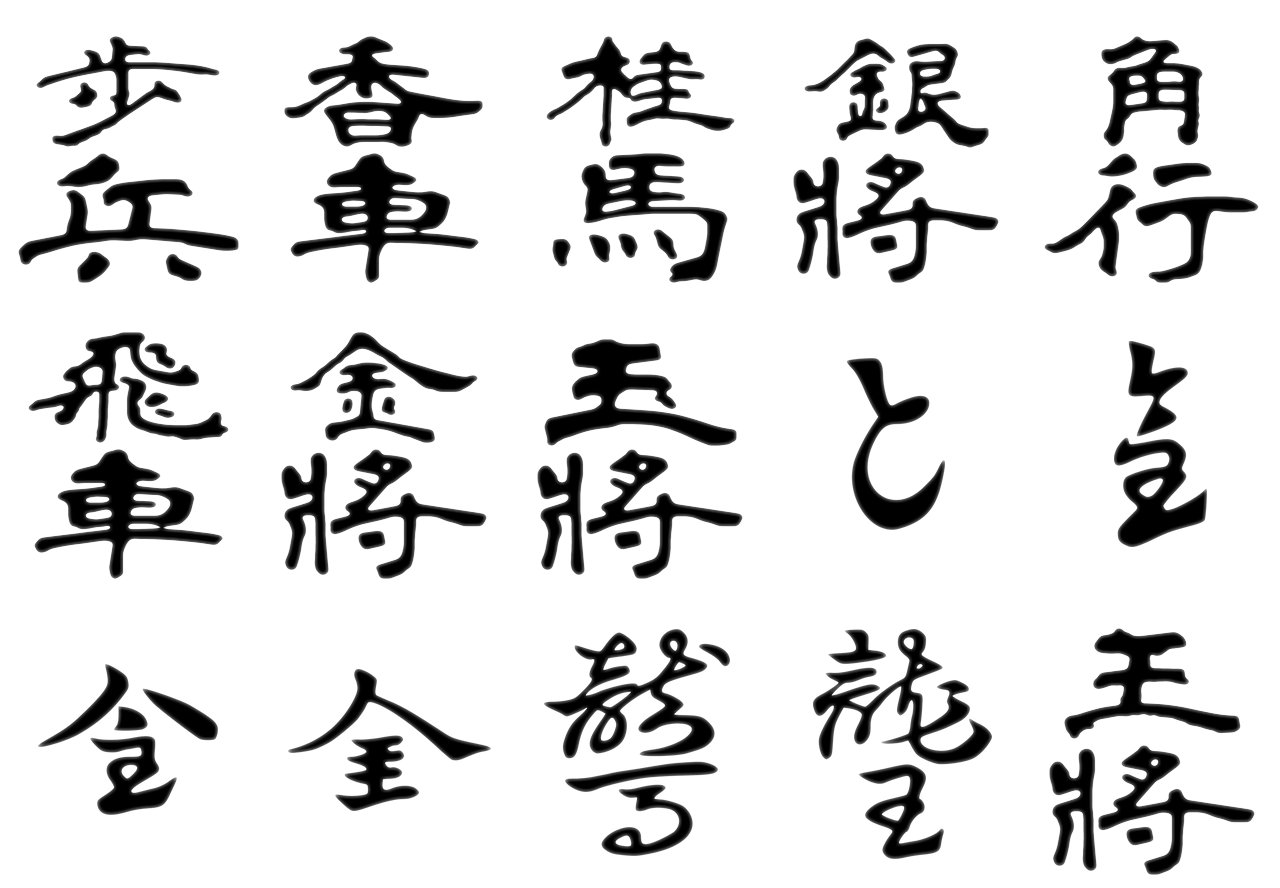
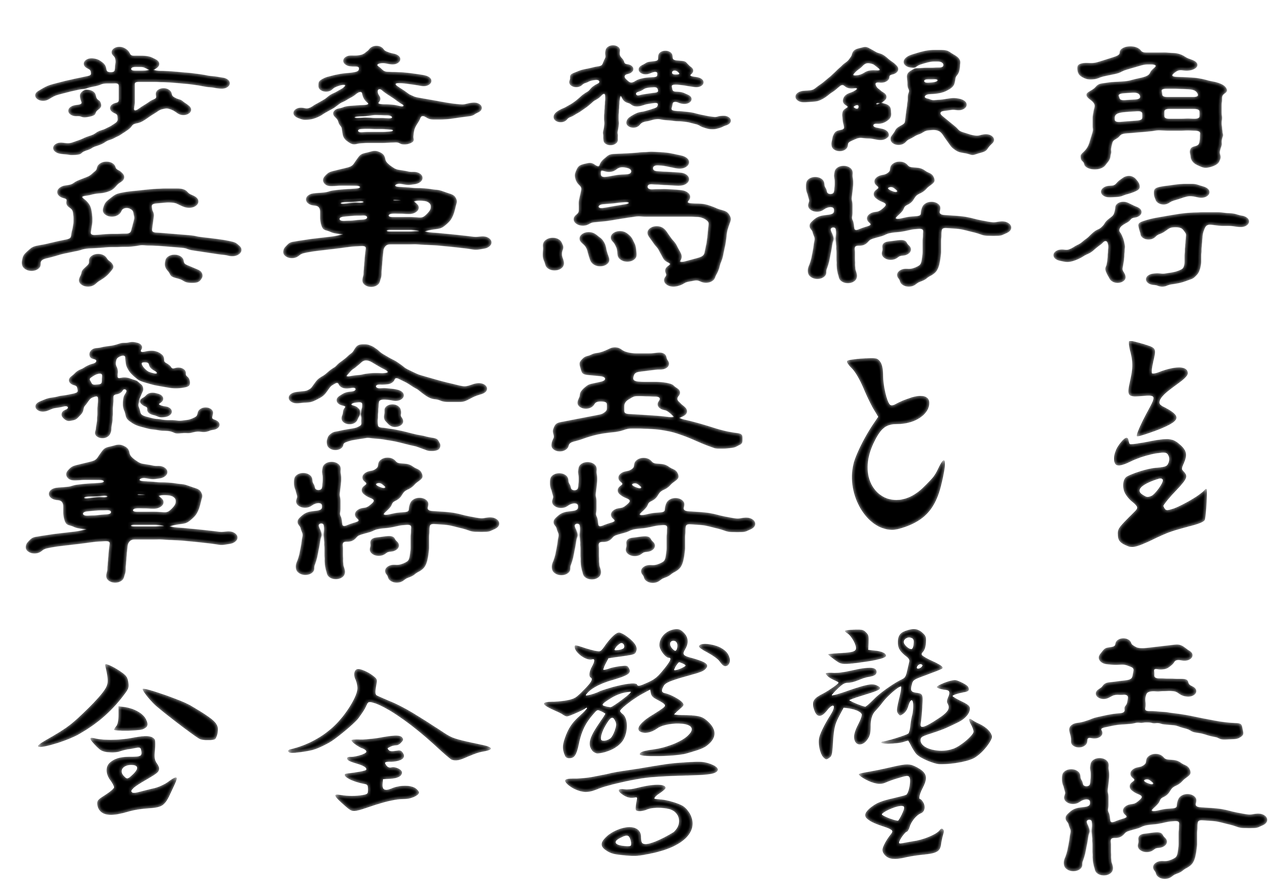
将棋3D駒：隷書の字配りと線の作り込み（見た目の幅をそろえる・太い線・4倍で描画）
Claude-Session: https://claude.ai/code/session_01EiWRAWLV8eg6m15v5x8gee

diff --git a/atlas/lazy.js b/atlas/lazy.js
@@ -5,7 +5,7 @@
      AtlasLazy.has3D(id) / hasPlay(id) / hasRules(id) — known before loading; AtlasLazy.loaded(id) */
 (function () {
 'use strict';
-const G = {"reversi": ["games/reversi.js?v=38", "rules/reversi.js?v=14"], "shogi": ["models/shogi.js?v=52", "games/shogi-play.js?v=33", "games/shogi.js?v=14", "rules/shogi.js?v=21"], "chess": ["models/chess.js?v=16", "games/chess.js?v=15", "rules/chess.js?v=7"], "backgammon": ["models/backgammon.js?v=118", "games/backgammon.js?v=22", "rules/backgammon.js?v=11"], "gomoku": ["models/goban.js?v=14", "games/gomoku.js?v=12", "rules/gomoku.js?v=9"], "go": ["models/goban.js?v=14", "games/go.js?v=7", "rules/go.js?v=7"], "hex": ["models/goban.js?v=14", "models/hex.js?v=2", "games/hex.js?v=6", "rules/hex.js?v=6"], "tafl": ["games/tafl.js?v=15", "rules/tafl.js?v=7"], "xiangqi": ["models/xiangqi.js?v=4", "games/xiangqi.js?v=13", "rules/xiangqi.js?v=6"], "janggi": ["models/xiangqi.js?v=4", "models/janggi.js?v=3", "games/janggi.js?v=5", "rules/janggi.js?v=2"], "checkers": ["models/checkers.js?v=17", "games/checkers.js?v=8", "rules/checkers.js?v=4"], "ugolki": ["models/checkers.js?v=17", "models/ugolki.js?v=4", "games/ugolki.js?v=8", "rules/ugolki.js?v=8"], "morris": ["models/morris.js?v=7", "games/morris-pieces.js?v=2", "games/morris.js?v=7", "rules/morris.js?v=5"], "connect4": ["models/connect4.js?v=5", "games/connect4-tiles.js?v=1", "games/connect4.js?v=5", "rules/connect4.js?v=3"], "mancala": ["models/mancala.js?v=5", "games/mancala.js?v=10", "rules/mancala.js?v=4"], "dots": ["models/dots.js?v=4", "games/dots.js?v=9", "rules/dots.js?v=3"], "ur": ["models/ur-dice.js?v=2", "models/ur.js?v=4", "games/ur-kit.js?v=15", "games/ur.js?v=11", "rules/ur.js?v=16"], "fanorona": ["models/fanorona.js?v=4", "games/fanorona.js?v=6", "rules/fanorona.js?v=8"], "konane": ["models/konane.js?v=7", "games/konane.js?v=11", "rules/konane.js?v=5"], "amazons": ["models/amazons.js?v=7", "games/amazons.js?v=10", "rules/amazons.js?v=4"], "senet": ["models/ur-dice.js?v=2", "models/senet.js?v=10", "games/senet-kit.js?v=5", "games/senet.js?v=16", "rules/senet.js?v=8"], "agon": ["models/agon.js?v=4", "games/agon.js?v=11", "rules/agon.js?v=5"], "alquerque": ["models/alquerque.js?v=3", "rules/alquerque.js?v=6"], "ludo": ["../ludo/engine.js?v=3", "../ludo/house.js?v=7", "../ludo/board2d.js?v=7", "../ludo/board-art.js?v=3", "models/ludo.js?v=10", "games/ludo.js?v=28", "rules/ludo.js?v=3"], "carrom": ["../carrom/engine.js?v=6", "models/carrom.js?v=17", "games/carrom.js?v=37", "rules/carrom.js?v=8"], "crokinole": ["../carrom/engine.js?v=6", "games/carrom.js?v=37", "../crokinole/engine.js?v=3", "models/crokinole.js?v=12", "games/crokinole.js?v=14", "rules/crokinole.js?v=4"], "hockey": ["../hockey/engine.js?v=13", "models/hockey.js?v=8", "games/hockey.js?v=19", "rules/hockey.js?v=7"], "peg": ["../peg/engine.js?v=1", "../peg/i18n.js?v=6", "models/peg.js?v=6", "games/peg.js?v=1", "rules/peg.js?v=4"]};
+const G = {"reversi": ["games/reversi.js?v=38", "rules/reversi.js?v=14"], "shogi": ["models/shogi.js?v=53", "games/shogi-play.js?v=33", "games/shogi.js?v=14", "rules/shogi.js?v=21"], "chess": ["models/chess.js?v=16", "games/chess.js?v=15", "rules/chess.js?v=7"], "backgammon": ["models/backgammon.js?v=118", "games/backgammon.js?v=22", "rules/backgammon.js?v=11"], "gomoku": ["models/goban.js?v=14", "games/gomoku.js?v=12", "rules/gomoku.js?v=9"], "go": ["models/goban.js?v=14", "games/go.js?v=7", "rules/go.js?v=7"], "hex": ["models/goban.js?v=14", "models/hex.js?v=2", "games/hex.js?v=6", "rules/hex.js?v=6"], "tafl": ["games/tafl.js?v=15", "rules/tafl.js?v=7"], "xiangqi": ["models/xiangqi.js?v=4", "games/xiangqi.js?v=13", "rules/xiangqi.js?v=6"], "janggi": ["models/xiangqi.js?v=4", "models/janggi.js?v=3", "games/janggi.js?v=5", "rules/janggi.js?v=2"], "checkers": ["models/checkers.js?v=17", "games/checkers.js?v=8", "rules/checkers.js?v=4"], "ugolki": ["models/checkers.js?v=17", "models/ugolki.js?v=4", "games/ugolki.js?v=8", "rules/ugolki.js?v=8"], "morris": ["models/morris.js?v=7", "games/morris-pieces.js?v=2", "games/morris.js?v=7", "rules/morris.js?v=5"], "connect4": ["models/connect4.js?v=5", "games/connect4-tiles.js?v=1", "games/connect4.js?v=5", "rules/connect4.js?v=3"], "mancala": ["models/mancala.js?v=5", "games/mancala.js?v=10", "rules/mancala.js?v=4"], "dots": ["models/dots.js?v=4", "games/dots.js?v=9", "rules/dots.js?v=3"], "ur": ["models/ur-dice.js?v=2", "models/ur.js?v=4", "games/ur-kit.js?v=15", "games/ur.js?v=11", "rules/ur.js?v=16"], "fanorona": ["models/fanorona.js?v=4", "games/fanorona.js?v=6", "rules/fanorona.js?v=8"], "konane": ["models/konane.js?v=7", "games/konane.js?v=11", "rules/konane.js?v=5"], "amazons": ["models/amazons.js?v=7", "games/amazons.js?v=10", "rules/amazons.js?v=4"], "senet": ["models/ur-dice.js?v=2", "models/senet.js?v=10", "games/senet-kit.js?v=5", "games/senet.js?v=16", "rules/senet.js?v=8"], "agon": ["models/agon.js?v=4", "games/agon.js?v=11", "rules/agon.js?v=5"], "alquerque": ["models/alquerque.js?v=3", "rules/alquerque.js?v=6"], "ludo": ["../ludo/engine.js?v=3", "../ludo/house.js?v=7", "../ludo/board2d.js?v=7", "../ludo/board-art.js?v=3", "models/ludo.js?v=10", "games/ludo.js?v=28", "rules/ludo.js?v=3"], "carrom": ["../carrom/engine.js?v=6", "models/carrom.js?v=17", "games/carrom.js?v=37", "rules/carrom.js?v=8"], "crokinole": ["../carrom/engine.js?v=6", "games/carrom.js?v=37", "../crokinole/engine.js?v=3", "models/crokinole.js?v=12", "games/crokinole.js?v=14", "rules/crokinole.js?v=4"], "hockey": ["../hockey/engine.js?v=13", "models/hockey.js?v=8", "games/hockey.js?v=19", "rules/hockey.js?v=7"], "peg": ["../peg/engine.js?v=1", "../peg/i18n.js?v=6", "models/peg.js?v=6", "games/peg.js?v=1", "rules/peg.js?v=4"]};
 const F = {"reversi": {"t3": true, "play": true, "rules": true}, "shogi": {"t3": true, "play": true, "rules": true}, "chess": {"t3": true, "play": true, "rules": true}, "backgammon": {"t3": true, "play": true, "rules": true}, "gomoku": {"t3": true, "play": true, "rules": true}, "go": {"t3": true, "play": true, "rules": true}, "hex": {"t3": true, "play": true, "rules": true}, "tafl": {"t3": true, "play": true, "rules": true}, "xiangqi": {"t3": true, "play": true, "rules": true}, "janggi": {"t3": true, "play": true, "rules": true}, "checkers": {"t3": true, "play": true, "rules": true}, "ugolki": {"t3": true, "play": true, "rules": true}, "morris": {"t3": true, "play": true, "rules": true}, "connect4": {"t3": true, "play": true, "rules": true}, "mancala": {"t3": true, "play": true, "rules": true}, "dots": {"t3": true, "play": true, "rules": true}, "ur": {"t3": true, "play": true, "rules": true}, "fanorona": {"t3": true, "play": true, "rules": true}, "konane": {"t3": true, "play": true, "rules": true}, "amazons": {"t3": true, "play": true, "rules": true}, "senet": {"t3": true, "play": true, "rules": true}, "agon": {"t3": true, "play": true, "rules": true}, "alquerque": {"t3": true, "play": false, "rules": true}, "ludo": {"t3": true, "play": true, "rules": true}, "carrom": {"t3": true, "play": true, "rules": true}, "crokinole": {"t3": true, "play": true, "rules": true}, "hockey": {"t3": true, "play": true, "rules": true}, "peg": {"t3": true, "play": true, "rules": true}};
 const done = new Set(), loading = new Map(), ok = new Set();
 function load(src) {

diff --git a/dots/index.html b/dots/index.html
@@ -2299,7 +2299,7 @@ document.querySelector('#rsResume').onclick = () => { document.querySelector('#r
   const f = document.createElement('link'); f.rel = 'stylesheet'; f.href = 'https://fonts.googleapis.com/css2?family=RocknRoll+One&family=Zen+Maru+Gothic:wght@500;700;900&family=Fredoka:wght@600;700&family=Kalam:wght@400;700&family=Zen+Kurenaido&family=Nanum+Pen+Script&family=Long+Cang&family=Aref+Ruqaa:wght@700&display=swap'; document.head.appendChild(f);   // (Kalam … Aref Ruqaa: the handwritten box initials and tally on the notebook page)
   const load = src => new Promise((res, rej) => { const s = document.createElement('script'); s.src = src; s.onload = res; s.onerror = rej; document.body.appendChild(s); });
   if (window.AtlasLoading) { AtlasLoading.show(); setTimeout(() => AtlasLoading.hide(), 12000); }   // safety net
-  load('https://cdnjs.cloudflare.com/ajax/libs/three.js/r128/three.min.js').then(() => load('../atlas/img/tex/baked.js?v=1')).then(() => load('../atlas/table3d.js?v=152')).then(() => load('../atlas/tables3d.js?v=72')).then(() => load('../atlas/skin/common.js?v=71')).then(() => load('../atlas/models/dots.js?v=3l14')).then(() => load('../atlas/skin/dots.js?v=7l14'))
+  load('https://cdnjs.cloudflare.com/ajax/libs/three.js/r128/three.min.js').then(() => load('../atlas/img/tex/baked.js?v=1')).then(() => load('../atlas/table3d.js?v=152')).then(() => load('../atlas/tables3d.js?v=73')).then(() => load('../atlas/skin/common.js?v=71')).then(() => load('../atlas/models/dots.js?v=3l14')).then(() => load('../atlas/skin/dots.js?v=7l14'))
     .catch(() => { document.documentElement.classList.remove('atlas-skin'); if (window.AtlasLoading) AtlasLoading.hide(); });
 })();
 </script>

diff --git a/ur/index.html b/ur/index.html
@@ -1029,7 +1029,7 @@ html:not([lang=ja]):not([lang=zh]):not([lang="zh-TW"]):not([lang=ko]) .result-bi
   const f = document.createElement('link'); f.rel = 'stylesheet'; f.href = 'https://fonts.googleapis.com/css2?family=RocknRoll+One&family=Zen+Maru+Gothic:wght@500;700;900&family=Fredoka:wght@600;700&display=swap'; document.head.appendChild(f);
   const load = src => new Promise((res, rej) => { const s = document.createElement('script'); s.src = src; s.onload = res; s.onerror = rej; document.body.appendChild(s); });
   if (window.AtlasLoading) { AtlasLoading.show(); setTimeout(() => AtlasLoading.hide(), 12000); }   // safety net
-  load('https://cdnjs.cloudflare.com/ajax/libs/three.js/r128/three.min.js').then(() => load('../atlas/img/tex/baked.js?v=1')).then(() => load('../atlas/table3d.js?v=152')).then(() => load('../atlas/tables3d.js?v=72')).then(() => load('../atlas/skin/common.js?v=71')).then(() => load('../atlas/models/ur-dice.js?v=2l14')).then(() => load('../atlas/models/ur.js?v=3l14')).then(() => load('../atlas/skin/ur.js?v=14l14'))
+  load('https://cdnjs.cloudflare.com/ajax/libs/three.js/r128/three.min.js').then(() => load('../atlas/img/tex/baked.js?v=1')).then(() => load('../atlas/table3d.js?v=152')).then(() => load('../atlas/tables3d.js?v=73')).then(() => load('../atlas/skin/common.js?v=71')).then(() => load('../atlas/models/ur-dice.js?v=2l14')).then(() => load('../atlas/models/ur.js?v=3l14')).then(() => load('../atlas/skin/ur.js?v=14l14'))
     .catch(() => { const u = new URL(location.href); u.searchParams.delete('skin'); location.replace(u.href); });   // (the 3D files are missing: the plain 2D page)
 })();
 </script>

diff --git a/connect4/index.html b/connect4/index.html
@@ -3390,7 +3390,7 @@ document.addEventListener('keydown', e => {
   const f = document.createElement('link'); f.rel = 'stylesheet'; f.href = 'https://fonts.googleapis.com/css2?family=RocknRoll+One&family=Zen+Maru+Gothic:wght@500;700;900&family=Fredoka:wght@600;700&display=swap'; document.head.appendChild(f);
   const load = src => new Promise((res, rej) => { const s = document.createElement('script'); s.src = src; s.onload = res; s.onerror = rej; document.body.appendChild(s); });
   if (window.AtlasLoading) { AtlasLoading.show(); setTimeout(() => AtlasLoading.hide(), 12000); }   // safety net
-  load('https://cdnjs.cloudflare.com/ajax/libs/three.js/r128/three.min.js').then(() => load('../atlas/img/tex/baked.js?v=1')).then(() => load('../atlas/table3d.js?v=152')).then(() => load('../atlas/tables3d.js?v=72')).then(() => load('../atlas/skin/common.js?v=71')).then(() => load('../atlas/models/connect4.js?v=5l14')).then(() => load('../atlas/games/connect4-tiles.js?v=1l14')).then(() => load('../atlas/skin/connect4.js?v=6l14-aim'))
+  load('https://cdnjs.cloudflare.com/ajax/libs/three.js/r128/three.min.js').then(() => load('../atlas/img/tex/baked.js?v=1')).then(() => load('../atlas/table3d.js?v=152')).then(() => load('../atlas/tables3d.js?v=73')).then(() => load('../atlas/skin/common.js?v=71')).then(() => load('../atlas/models/connect4.js?v=5l14')).then(() => load('../atlas/games/connect4-tiles.js?v=1l14')).then(() => load('../atlas/skin/connect4.js?v=6l14-aim'))
     .catch(() => { document.documentElement.classList.remove('atlas-skin'); if (window.AtlasLoading) AtlasLoading.hide(); });
 })();
 </script>

diff --git a/morris/index.html b/morris/index.html
@@ -3897,7 +3897,7 @@ window.addEventListener('resize', () => renderFx());
   const f = document.createElement('link'); f.rel = 'stylesheet'; f.href = 'https://fonts.googleapis.com/css2?family=RocknRoll+One&family=Zen+Maru+Gothic:wght@500;700;900&family=Fredoka:wght@600;700&display=swap'; document.head.appendChild(f);
   const load = src => new Promise((res, rej) => { const s = document.createElement('script'); s.src = src; s.onload = res; s.onerror = rej; document.body.appendChild(s); });
   if (window.AtlasLoading) { AtlasLoading.show(); setTimeout(() => AtlasLoading.hide(), 12000); }   // safety net
-  load('https://cdnjs.cloudflare.com/ajax/libs/three.js/r128/three.min.js').then(() => load('../atlas/img/tex/baked.js?v=1')).then(() => load('../atlas/table3d.js?v=152')).then(() => load('../atlas/tables3d.js?v=72')).then(() => load('../atlas/skin/common.js?v=71')).then(() => load('../atlas/models/morris.js?v=6l14')).then(() => load('../atlas/games/morris-pieces.js?v=2l14')).then(() => load('../atlas/skin/morris.js?v=6l15'))
+  load('https://cdnjs.cloudflare.com/ajax/libs/three.js/r128/three.min.js').then(() => load('../atlas/img/tex/baked.js?v=1')).then(() => load('../atlas/table3d.js?v=152')).then(() => load('../atlas/tables3d.js?v=73')).then(() => load('../atlas/skin/common.js?v=71')).then(() => load('../atlas/models/morris.js?v=6l14')).then(() => load('../atlas/games/morris-pieces.js?v=2l14')).then(() => load('../atlas/skin/morris.js?v=6l15'))
     .catch(() => { document.documentElement.classList.remove('atlas-skin'); if (window.AtlasLoading) AtlasLoading.hide(); });
 })();
 </script>

diff --git a/senet/index.html b/senet/index.html
@@ -1030,7 +1030,7 @@ html:not([lang=ja]):not([lang=zh]):not([lang=zh-TW]):not([lang=ko]) .result-big{
   const f = document.createElement('link'); f.rel = 'stylesheet'; f.href = 'https://fonts.googleapis.com/css2?family=RocknRoll+One&family=Zen+Maru+Gothic:wght@500;700;900&family=Fredoka:wght@600;700&display=swap'; document.head.appendChild(f);
   const load = src => new Promise((res, rej) => { const s = document.createElement('script'); s.src = src; s.onload = res; s.onerror = rej; document.body.appendChild(s); });
   if (window.AtlasLoading) { AtlasLoading.show(); setTimeout(() => AtlasLoading.hide(), 12000); }   // safety net
-  load('https://cdnjs.cloudflare.com/ajax/libs/three.js/r128/three.min.js').then(() => load('../atlas/img/tex/baked.js?v=1')).then(() => load('../atlas/table3d.js?v=152')).then(() => load('../atlas/tables3d.js?v=72')).then(() => load('../atlas/skin/common.js?v=71')).then(() => load('../atlas/models/senet.js?v=10l14')).then(() => load('../atlas/skin/senet.js?v=10l14'))
+  load('https://cdnjs.cloudflare.com/ajax/libs/three.js/r128/three.min.js').then(() => load('../atlas/img/tex/baked.js?v=1')).then(() => load('../atlas/table3d.js?v=152')).then(() => load('../atlas/tables3d.js?v=73')).then(() => load('../atlas/skin/common.js?v=71')).then(() => load('../atlas/models/senet.js?v=10l14')).then(() => load('../atlas/skin/senet.js?v=10l14'))
     .catch(() => { const u = new URL(location.href); u.searchParams.delete('skin'); location.replace(u.href); });   // (the 3D files are missing: the plain 2D page)
 })();
 </script>

diff --git a/fanorona/index.html b/fanorona/index.html
@@ -1687,7 +1687,7 @@ body.lt-on .reserve .onb.on{border-color:var(--accent);box-shadow:0 0 0 1px var(
   const f = document.createElement('link'); f.rel = 'stylesheet'; f.href = 'https://fonts.googleapis.com/css2?family=RocknRoll+One&family=Zen+Maru+Gothic:wght@500;700;900&family=Fredoka:wght@600;700&display=swap'; document.head.appendChild(f);
   const load = src => new Promise((res, rej) => { const s = document.createElement('script'); s.src = src; s.onload = res; s.onerror = rej; document.body.appendChild(s); });
   if (window.AtlasLoading) { AtlasLoading.show(); setTimeout(() => AtlasLoading.hide(), 12000); }   // safety net
-  load('https://cdnjs.cloudflare.com/ajax/libs/three.js/r128/three.min.js').then(() => load('../atlas/img/tex/baked.js?v=1')).then(() => load('../atlas/table3d.js?v=152')).then(() => load('../atlas/tables3d.js?v=72')).then(() => load('../atlas/skin/common.js?v=71')).then(() => load('../atlas/models/fanorona.js?v=3l14')).then(() => load('../atlas/skin/fanorona.js?v=6l14'))
+  load('https://cdnjs.cloudflare.com/ajax/libs/three.js/r128/three.min.js').then(() => load('../atlas/img/tex/baked.js?v=1')).then(() => load('../atlas/table3d.js?v=152')).then(() => load('../atlas/tables3d.js?v=73')).then(() => load('../atlas/skin/common.js?v=71')).then(() => load('../atlas/models/fanorona.js?v=3l14')).then(() => load('../atlas/skin/fanorona.js?v=6l14'))
     .catch(() => { document.documentElement.classList.remove('atlas-skin'); if (window.AtlasLoading) AtlasLoading.hide(); });
 })();
 </script>

diff --git a/mancala/index.html b/mancala/index.html
@@ -1586,7 +1586,7 @@ html[data-sk=ocean] .seed{box-shadow:0 calc(var(--u) * .025) calc(var(--u) * .04
   const f = document.createElement('link'); f.rel = 'stylesheet'; f.href = 'https://fonts.googleapis.com/css2?family=RocknRoll+One&family=Zen+Maru+Gothic:wght@500;700;900&family=Fredoka:wght@600;700&display=swap'; document.head.appendChild(f);
   const load = src => new Promise((res, rej) => { const s = document.createElement('script'); s.src = src; s.onload = res; s.onerror = rej; document.body.appendChild(s); });
   if (window.AtlasLoading) { AtlasLoading.show(); setTimeout(() => AtlasLoading.hide(), 12000); }   // safety net
-  load('https://cdnjs.cloudflare.com/ajax/libs/three.js/r128/three.min.js').then(() => load('../atlas/img/tex/baked.js?v=1')).then(() => load('../atlas/table3d.js?v=152')).then(() => load('../atlas/tables3d.js?v=72')).then(() => load('../atlas/skin/common.js?v=71')).then(() => load('../atlas/models/mancala.js?v=4l14')).then(() => load('../atlas/skin/mancala.js?v=10l14'))
+  load('https://cdnjs.cloudflare.com/ajax/libs/three.js/r128/three.min.js').then(() => load('../atlas/img/tex/baked.js?v=1')).then(() => load('../atlas/table3d.js?v=152')).then(() => load('../atlas/tables3d.js?v=73')).then(() => load('../atlas/skin/common.js?v=71')).then(() => load('../atlas/models/mancala.js?v=4l14')).then(() => load('../atlas/skin/mancala.js?v=10l14'))
     .catch(() => { document.documentElement.classList.remove('atlas-skin'); if (window.AtlasLoading) AtlasLoading.hide(); });
 })();
 </script>

diff --git a/gomoku/index.html b/gomoku/index.html
@@ -1445,7 +1445,7 @@ body.skin-ink .st.b{background:radial-gradient(circle at 34% 28%,#8a8f98 0%,#3c4
   const f = document.createElement('link'); f.rel = 'stylesheet'; f.href = 'https://fonts.googleapis.com/css2?family=RocknRoll+One&family=Zen+Maru+Gothic:wght@500;700;900&family=Fredoka:wght@600;700&display=swap'; document.head.appendChild(f);
   const load = src => new Promise((res, rej) => { const s = document.createElement('script'); s.src = src; s.onload = res; s.onerror = rej; document.body.appendChild(s); });
   if (window.AtlasLoading) { AtlasLoading.show(); setTimeout(() => AtlasLoading.hide(), 12000); }   // safety net
-  load('https://cdnjs.cloudflare.com/ajax/libs/three.js/r128/three.min.js').then(() => load('../atlas/img/tex/baked.js?v=1')).then(() => load('../atlas/table3d.js?v=152')).then(() => load('../atlas/tables3d.js?v=72')).then(() => load('../atlas/skin/common.js?v=71')).then(() => load('../atlas/models/goban.js?v=11l14')).then(() => load('../atlas/skin/gomoku.js?v=4l14'))
+  load('https://cdnjs.cloudflare.com/ajax/libs/three.js/r128/three.min.js').then(() => load('../atlas/img/tex/baked.js?v=1')).then(() => load('../atlas/table3d.js?v=152')).then(() => load('../atlas/tables3d.js?v=73')).then(() => load('../atlas/skin/common.js?v=71')).then(() => load('../atlas/models/goban.js?v=11l14')).then(() => load('../atlas/skin/gomoku.js?v=4l14'))
     .catch(() => { document.documentElement.classList.remove('atlas-skin'); if (window.AtlasLoading) AtlasLoading.hide(); });
 })();
 </script>

diff --git a/ugolki/index.html b/ugolki/index.html
@@ -1393,7 +1393,7 @@ html:is([data-bd=gzhel],[data-bd=birch]) .reserve .rsv-plate .rsv-w:not(.hot) b{
   const f = document.createElement('link'); f.rel = 'stylesheet'; f.href = 'https://fonts.googleapis.com/css2?family=RocknRoll+One&family=Zen+Maru+Gothic:wght@500;700;900&family=Fredoka:wght@600;700&display=swap'; document.head.appendChild(f);
   const load = src => new Promise((res, rej) => { const s = document.createElement('script'); s.src = src; s.onload = res; s.onerror = rej; document.body.appendChild(s); });
   if (window.AtlasLoading) { AtlasLoading.show(); setTimeout(() => AtlasLoading.hide(), 12000); }   // safety net
-  load('https://cdnjs.cloudflare.com/ajax/libs/three.js/r128/three.min.js').then(() => load('../atlas/img/tex/baked.js?v=1')).then(() => load('../atlas/table3d.js?v=152')).then(() => load('../atlas/tables3d.js?v=72')).then(() => load('../atlas/skin/common.js?v=71')).then(() => load('../atlas/models/ugolki.js?v=4l14')).then(() => load('../atlas/skin/ugolki.js?v=2l14'))
+  load('https://cdnjs.cloudflare.com/ajax/libs/three.js/r128/three.min.js').then(() => load('../atlas/img/tex/baked.js?v=1')).then(() => load('../atlas/table3d.js?v=152')).then(() => load('../atlas/tables3d.js?v=73')).then(() => load('../atlas/skin/common.js?v=71')).then(() => load('../atlas/models/ugolki.js?v=4l14')).then(() => load('../atlas/skin/ugolki.js?v=2l14'))
     .catch(() => { document.documentElement.classList.remove('atlas-skin'); if (window.AtlasLoading) AtlasLoading.hide(); });
 })();
 </script>

diff --git a/alquerque/index.html b/alquerque/index.html
@@ -1689,7 +1689,7 @@ window.OL_VARIANTS = ['alq', 'alqf']; window.OL_DB_PREFIX = 'alq/';
   const f = document.createElement('link'); f.rel = 'stylesheet'; f.href = 'https://fonts.googleapis.com/css2?family=RocknRoll+One&family=Zen+Maru+Gothic:wght@500;700;900&family=Fredoka:wght@600;700&display=swap'; document.head.appendChild(f);
   const load = src => new Promise((res, rej) => { const s = document.createElement('script'); s.src = src; s.onload = res; s.onerror = rej; document.body.appendChild(s); });
   if (window.AtlasLoading) { AtlasLoading.show(); setTimeout(() => AtlasLoading.hide(), 12000); }   // safety net
-  load('https://cdnjs.cloudflare.com/ajax/libs/three.js/r128/three.min.js').then(() => load('../atlas/img/tex/baked.js?v=1')).then(() => load('../atlas/table3d.js?v=152')).then(() => load('../atlas/tables3d.js?v=72')).then(() => load('../atlas/skin/common.js?v=71')).then(() => load('../atlas/models/alquerque.js?v=3l14')).then(() => load('../atlas/skin/fanorona.js?v=6l14'))
+  load('https://cdnjs.cloudflare.com/ajax/libs/three.js/r128/three.min.js').then(() => load('../atlas/img/tex/baked.js?v=1')).then(() => load('../atlas/table3d.js?v=152')).then(() => load('../atlas/tables3d.js?v=73')).then(() => load('../atlas/skin/common.js?v=71')).then(() => load('../atlas/models/alquerque.js?v=3l14')).then(() => load('../atlas/skin/fanorona.js?v=6l14'))
     .catch(() => { document.documentElement.classList.remove('atlas-skin'); if (window.AtlasLoading) AtlasLoading.hide(); });
 })();
 </script>

diff --git a/chess/index.html b/chess/index.html
@@ -1589,7 +1589,7 @@ body.in-online .coach,body.in-online #btnMistakes{display:none!important}
   const f = document.createElement('link'); f.rel = 'stylesheet'; f.href = 'https://fonts.googleapis.com/css2?family=RocknRoll+One&family=Zen+Maru+Gothic:wght@500;700;900&family=Fredoka:wght@600;700&display=swap'; document.head.appendChild(f);
   const load = src => new Promise((res, rej) => { const s = document.createElement('script'); s.src = src; s.onload = res; s.onerror = rej; document.body.appendChild(s); });
   if (window.AtlasLoading) { AtlasLoading.show(); setTimeout(() => AtlasLoading.hide(), 12000); }   // safety net
-  load('https://cdnjs.cloudflare.com/ajax/libs/three.js/r128/three.min.js').then(() => load('../atlas/img/tex/baked.js?v=1')).then(() => load('../atlas/table3d.js?v=152')).then(() => load('../atlas/tables3d.js?v=72')).then(() => load('../atlas/skin/common.js?v=71')).then(() => load('../atlas/models/chess.js?v=16l14')).then(() => load('../atlas/skin/chess.js?v=11l14'))
+  load('https://cdnjs.cloudflare.com/ajax/libs/three.js/r128/three.min.js').then(() => load('../atlas/img/tex/baked.js?v=1')).then(() => load('../atlas/table3d.js?v=152')).then(() => load('../atlas/tables3d.js?v=73')).then(() => load('../atlas/skin/common.js?v=71')).then(() => load('../atlas/models/chess.js?v=16l14')).then(() => load('../atlas/skin/chess.js?v=11l14'))
     .catch(() => { document.documentElement.classList.remove('atlas-skin'); if (window.AtlasLoading) AtlasLoading.hide(); });
 })();
 </script>
